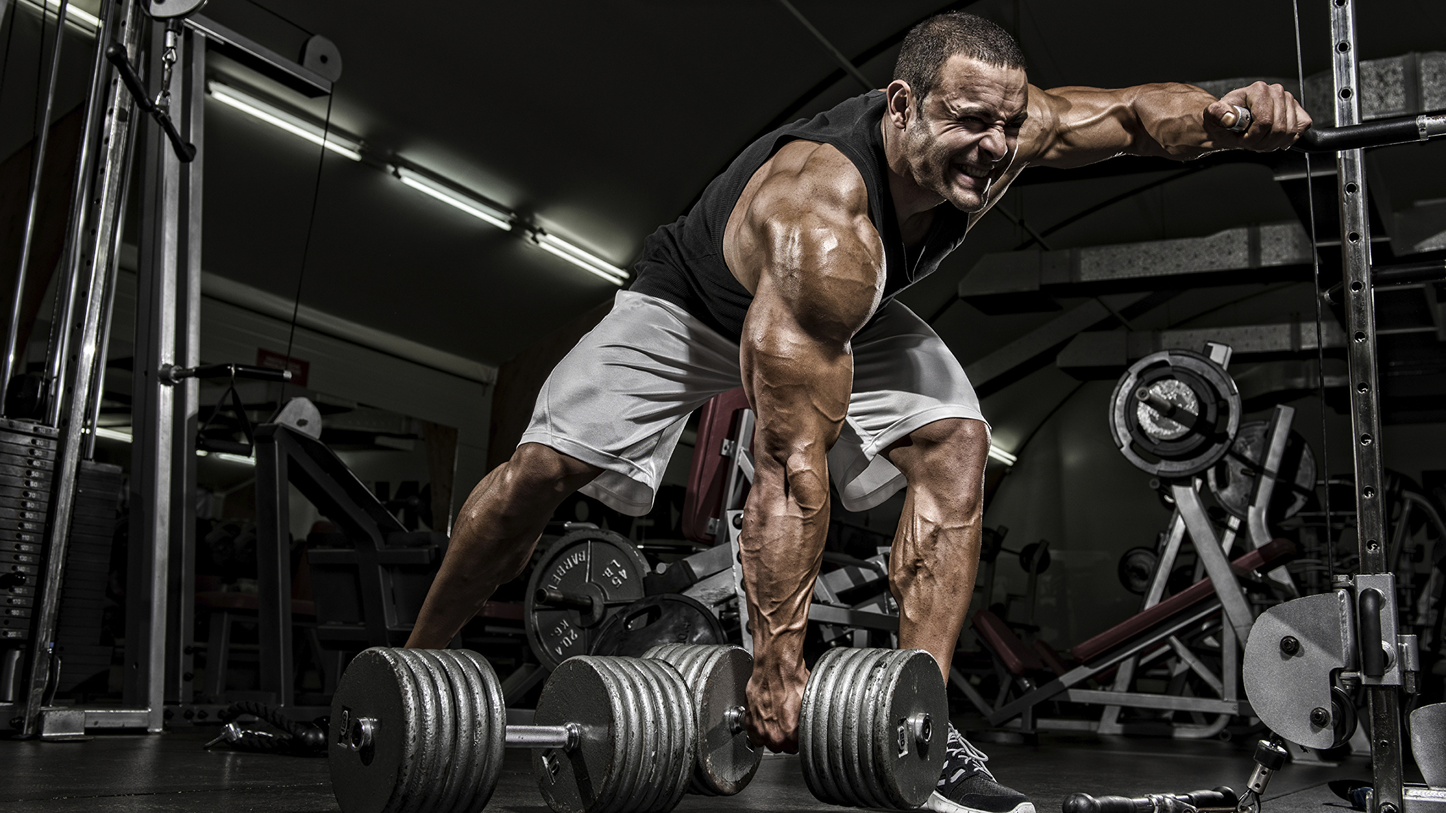
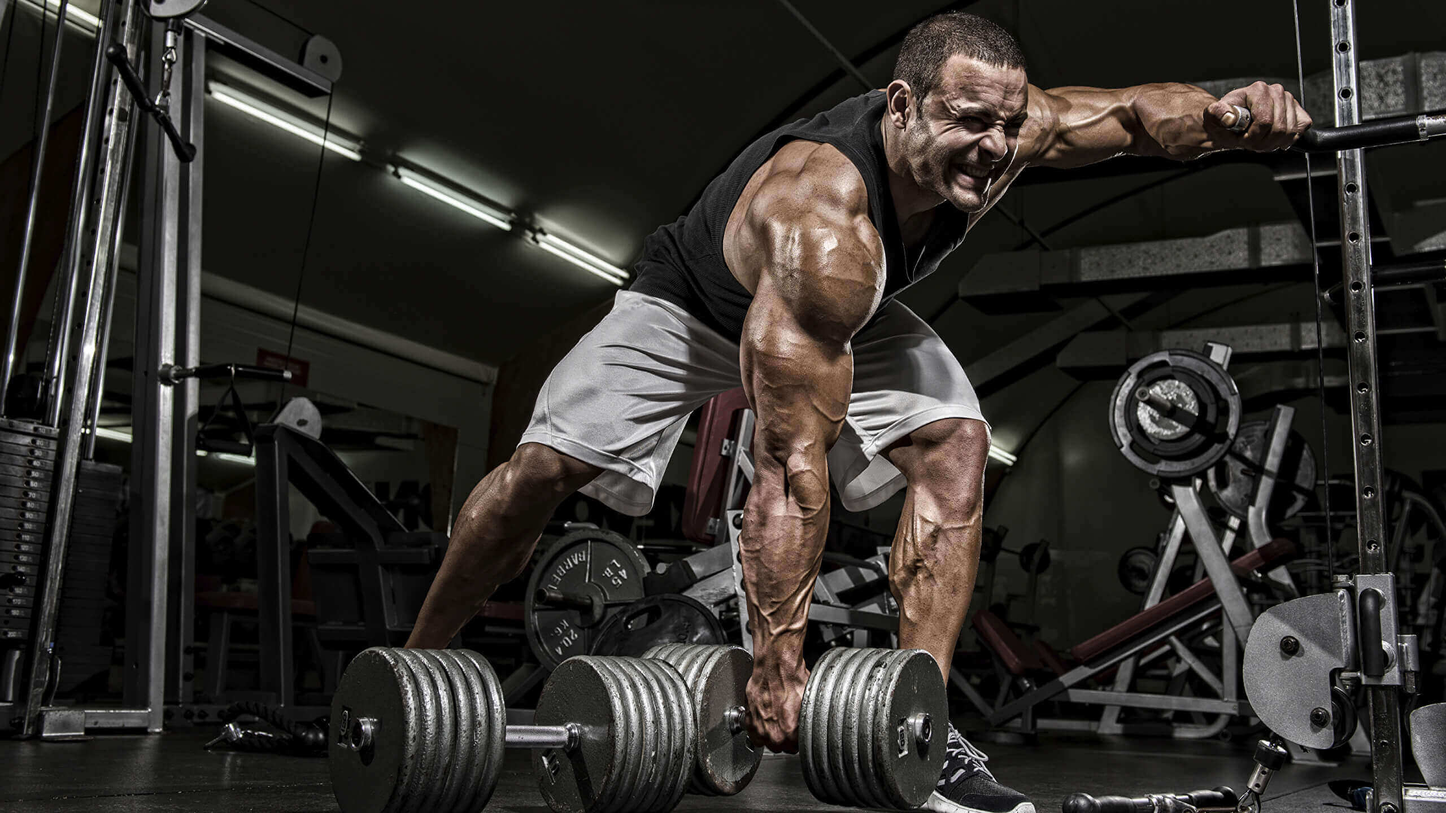
comprimi imagenes y quite algunas por otras

Changed region(s): [[0.6562, 0.9062, 0.6875, 0.9375], [0.3438, 0.875, 0.375, 0.9062]]

diff --git a/pages/prueba.html b/pages/prueba.html
@@ -43,7 +43,7 @@
     <main>
         <h1 class="animate__animated animate__backInUp animate__bounceIn">DÍA DE PRUEBA</h1>
         <section id="seccionPru" class="sec">
-            <img src="../img/imagenPrueba.webp" alt="Personas chocando los cinco" class="img">
+            <img src="../img/imagenPrueba.png" alt="Personas chocando los cinco" class="img">
             <br><br>
             <h2>CONOCE NUESTRAS INSTALACIONES</h2>
             <br><br>
